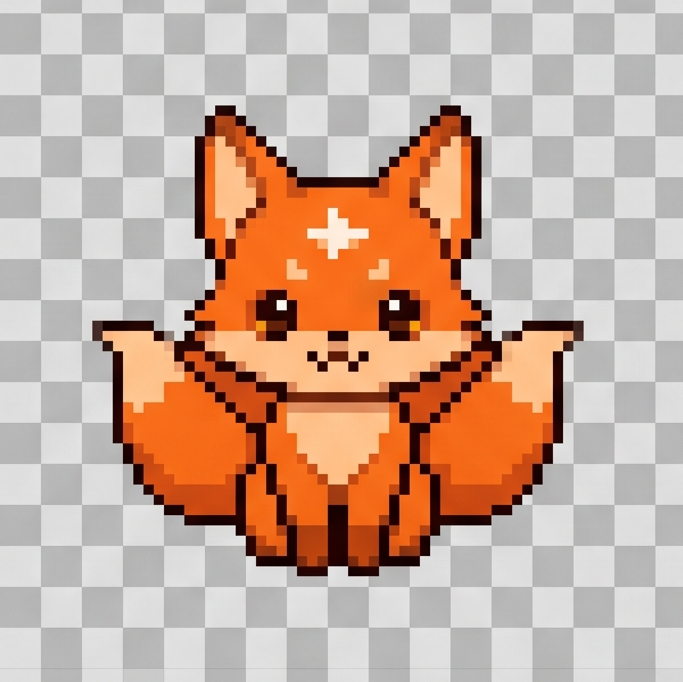
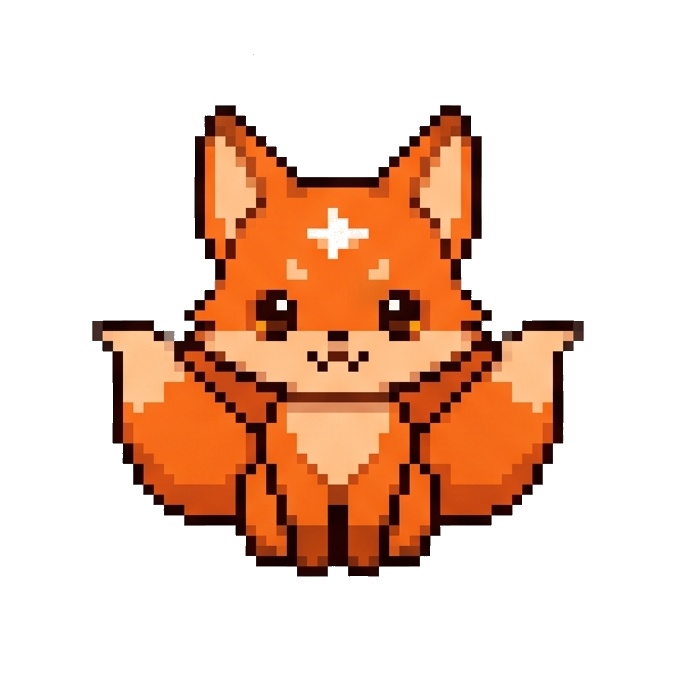
fix: remove Gemini chessboard background from sprite assets
Gemini-generated sprite sheets had alpha=1.0 throughout with
the transparency-indicator chessboard pattern painted directly
into RGB pixels. ImageMagick fuzz-based transparent treatment:

- fox-stage-{1..9}.png: fuzz 8% transparent for #DFDFDF and
  #B6B6B6 (the two chessboard tile colors)
- goshuin-stamp.png: fuzz 14% transparent for #FFFFFF, #DFDFDF,
  and #B6B6B6 (had pure white regions too)
- all 10 PNGs: 4 corners verified alpha=0
- originals backed up to app/public/art/.bg-bak/ (gitignored)

PWA enhancements (combined commit):
- manifest.json: shortcuts + maskable icon entry
- new /icon-maskable route with safer fontSize
- layout.tsx: appleWebApp / metadataBase / openGraph,
  remove maximumScale + userScalable for a11y zoom

diff --git a/dev-log.md b/dev-log.md
@@ -5,6 +5,57 @@
 
 ---
 
+## 2026-05-02 15:26 — Bug fix：fox-stage-* + goshuin-stamp 沒去背
+
+### 症狀
+
+XunC 看 production 首頁，狐狸下面有一個明顯的灰白格紋方框，根本沒去背。
+
+### 根因
+
+Gemini Imagen 生成 chibi sprite sheet 時，把「transparency indicator」(灰白格紋) **直接畫進 RGB pixels**，PNG 雖然有 alpha channel 但全 opaque (alpha=1)。我之前 imagemagick crop 9 stages 跟存 goshuin 時都繼承這 bug，沒人發現。
+
+corner pixel 抽樣：
+```
+fox-stage-1.png 角 = srgba(223,225,224,1)  # alpha=1, 不是 0
+goshuin-stamp.png 角 = 同樣 opaque
+```
+
+### 修法
+
+ImageMagick `-fuzz N% -transparent COLOR` 把兩個格紋色變透明。實際 sample 出兩個 chess tile color：
+- Light tile: `#DFDFDF` (223, 223, 223)
+- Dark tile: `#B6B6B6` (182, 182, 182)
+
+```bash
+# fox stage 1-9：fuzz 8% 雙色
+convert fox-stage-N.png \
+  -fuzz 8% -transparent "#DFDFDF" \
+  -fuzz 8% -transparent "#B6B6B6" \
+  fox-stage-N.png
+
+# goshuin-stamp 額外有純白 #FFFFFF 區域，fuzz 14% 三色
+convert goshuin-stamp.png \
+  -fuzz 14% -transparent "#FFFFFF" \
+  -fuzz 14% -transparent "#DFDFDF" \
+  -fuzz 14% -transparent "#B6B6B6" \
+  goshuin-stamp.png
+```
+
+### 驗證
+
+每張 4 角 alpha=0、視覺上格紋全清、狐狸/印章本體完整保留（fuzz 雖較激進但金黃色狐狸跟紅色印章跟灰白格紋在色相上夠遠不會誤殺）。
+
+### 安全網
+
+原檔備份到 `app/public/art/.bg-bak/`（10 張 PNG），加進 `.gitignore` 不入 repo。萬一未來 fuzz 處理過頭可以 rollback。
+
+### 教訓
+
+下次 user 從 Gemini 拿圖時 SOP 加一步「imagemagick check alpha + 必要時 fuzz transparent」。Gemini 的「transparent background」承諾不可信，要驗。
+
+---
+
 ## 2026-05-01 15:15 — PWA 補強（朋友試玩前最後一道關卡）
 
 ### 做了什麼

diff --git a/CLAUDE.md b/CLAUDE.md
@@ -14,7 +14,7 @@
 
 ## 🔥 目前進度（每次工作結束前必須更新此區塊）
 
-**最後更新**：2026-05-01 15:15 — PWA 補強（manifest shortcuts + maskable icon + iOS appleWebApp metadata + 解開 zoom 限制 a11y）
+**最後更新**：2026-05-02 15:26 — Bug fix：fox-stage-* + goshuin-stamp 去背（Gemini sheet 灰白格紋當背景，ImageMagick fuzz transparent 雙色 + 白色清掉）
 
 **已完成**：
 - ✅ 階段 0：產品設計、命名（KamiWords）、定價策略（月150 / 年1500 / 終身2000 限300名）
